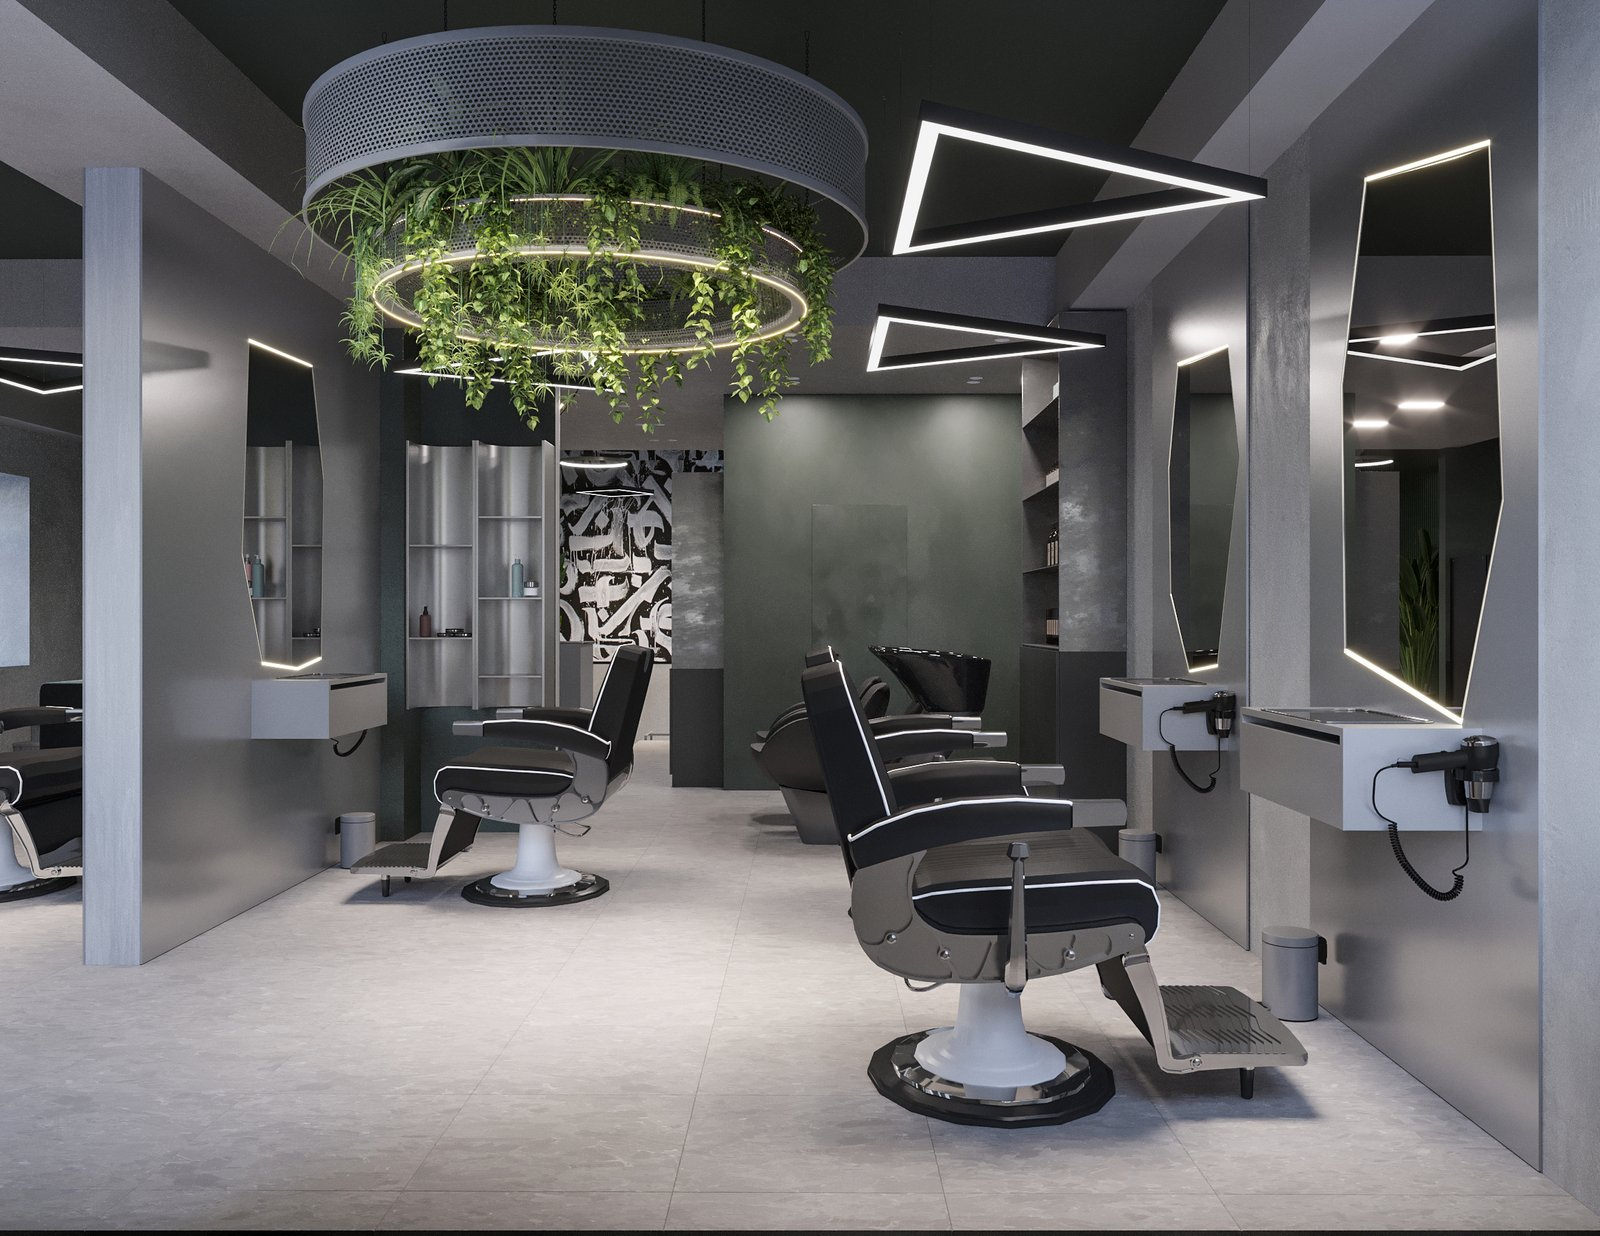
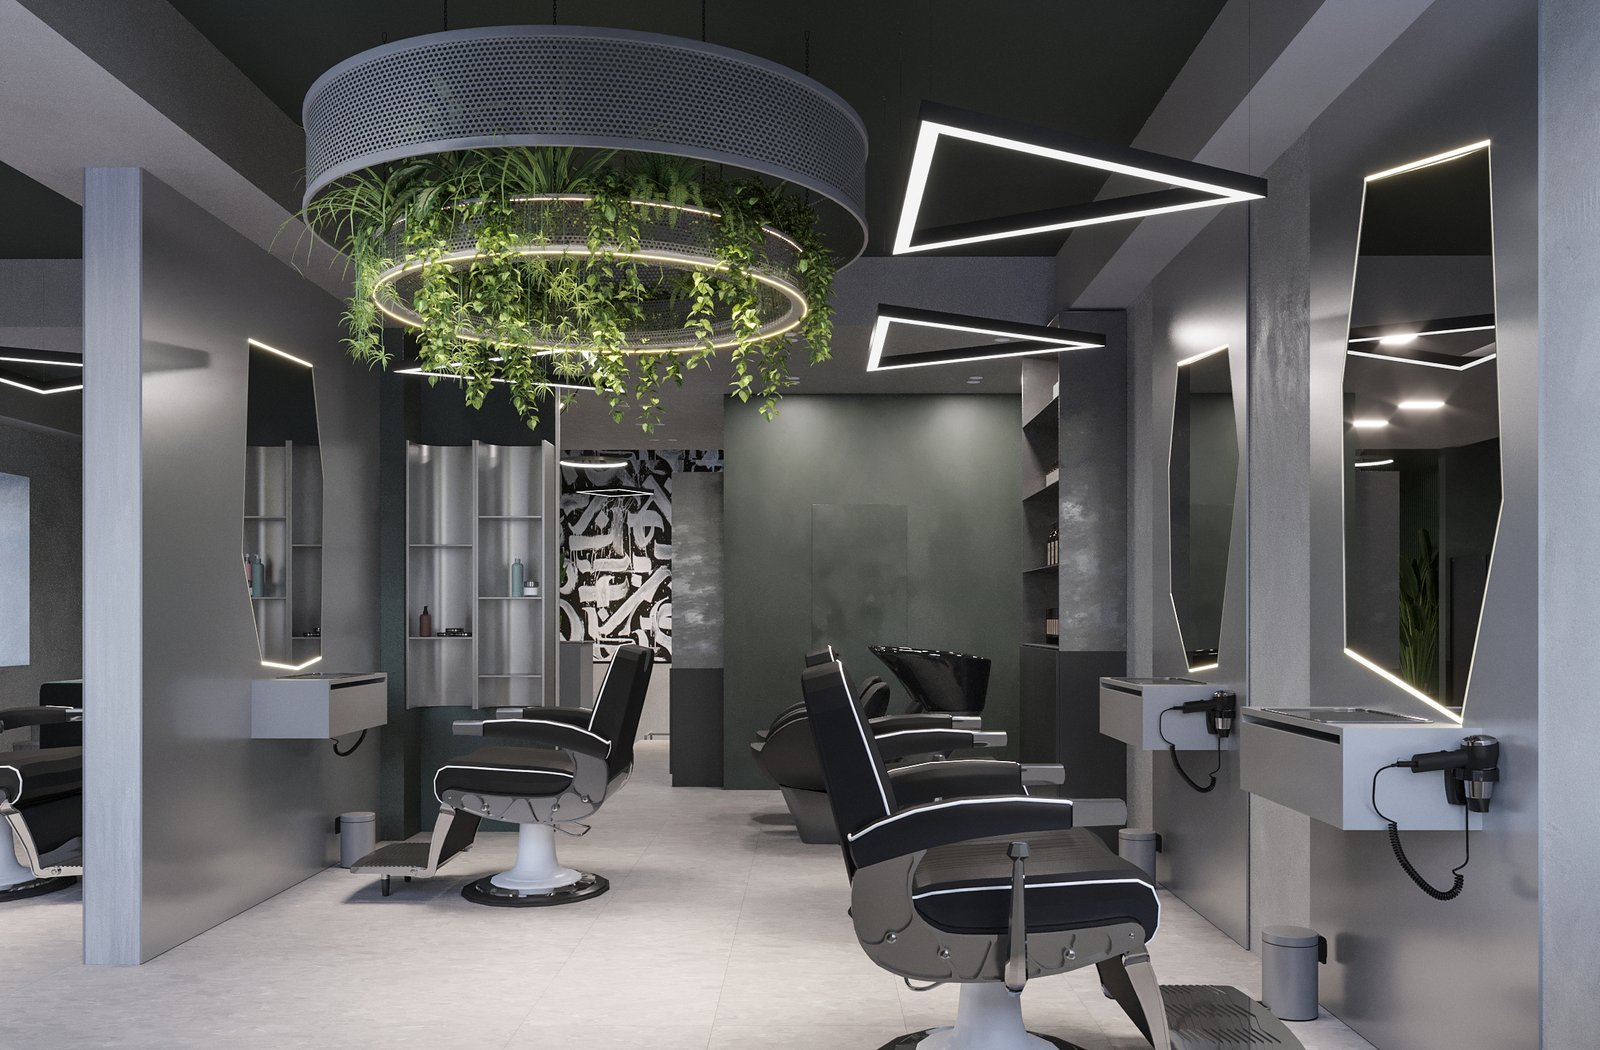
Crop interior workstations photo to remove floor strip
assets/interior/20.jpg: re-process from original with 15% bottom crop
(1600x1236 → 1600x1050). Drop object-position from both root and Astro
templates since image is now correctly framed by default.

diff --git a/index.html b/index.html
@@ -1589,7 +1589,7 @@
             <figcaption>Лаунж</figcaption>
           </figure>
           <figure class="interior-figure">
-            <img src="assets/interior/20.jpg" alt="Рабочие станции TYPE, вид со стороны входа" loading="lazy" decoding="async" style="object-position: center 20%;"/>
+            <img src="assets/interior/20.jpg" alt="Рабочие станции TYPE, вид со стороны входа" loading="lazy" decoding="async"/>
             <figcaption>Рабочие места</figcaption>
           </figure>
         </div>